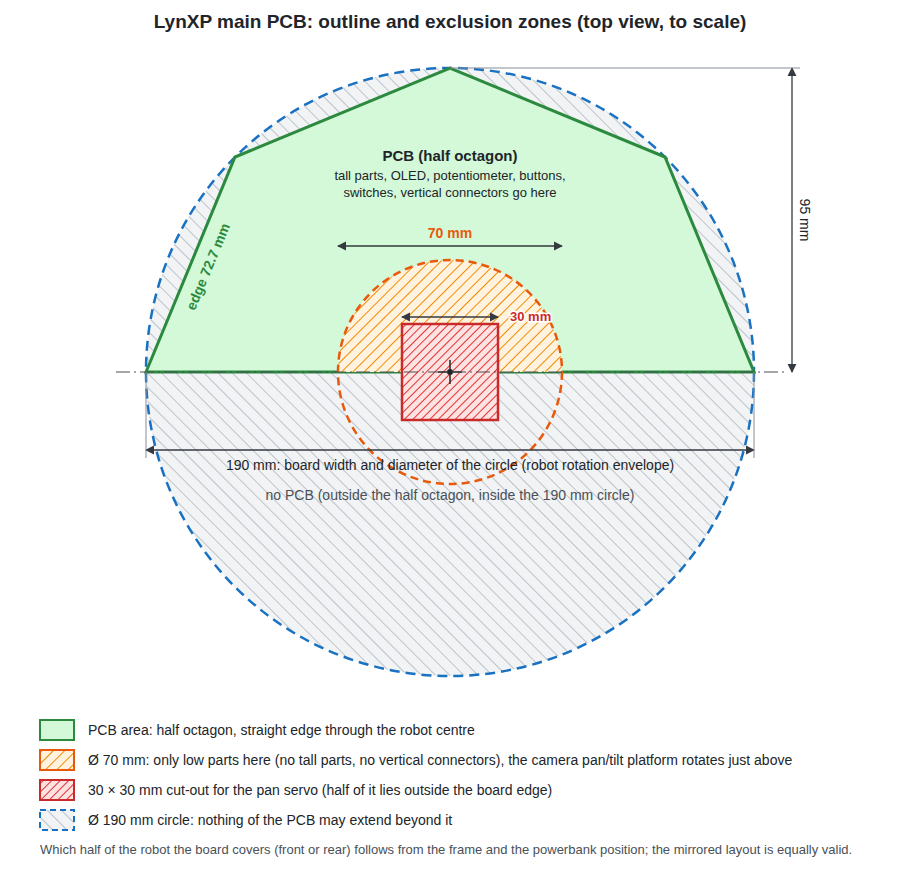
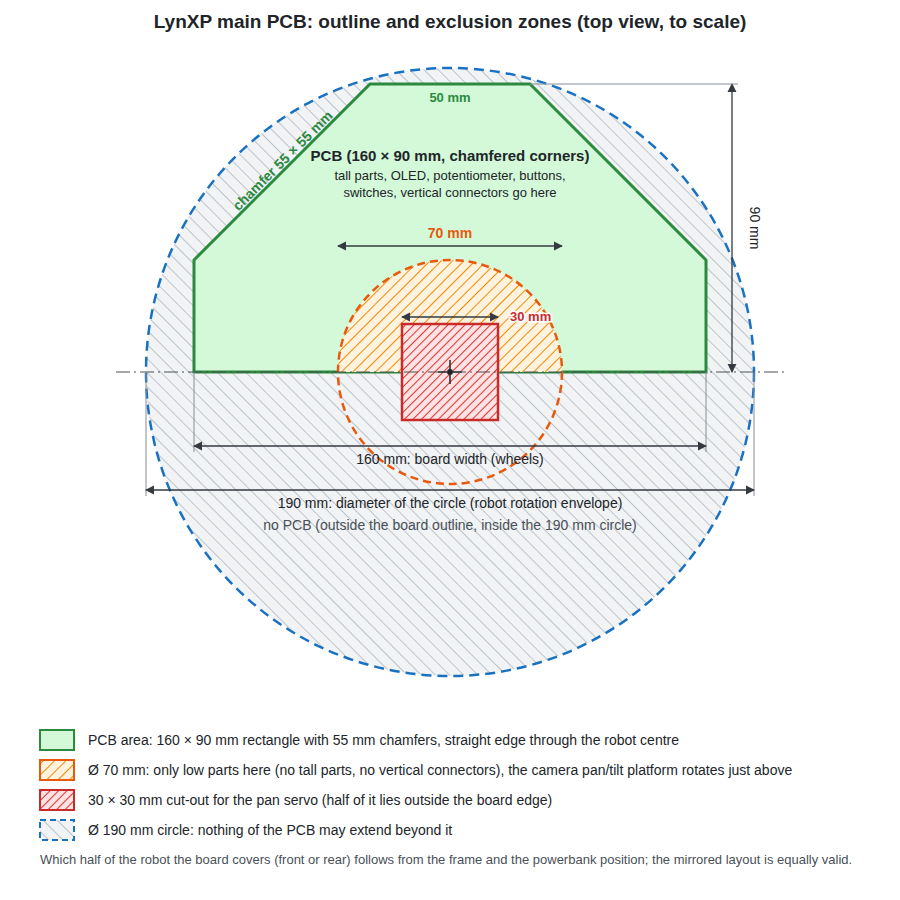
PCB requirements: outline is a 160 x 90 mm rectangle with 55 mm chamfers; redraw top view
Claude-Session: https://claude.ai/code/session_019TSqmhWQzu9b46bPfcjgtr

diff --git a/Schematic/PCB_requirements.md b/Schematic/PCB_requirements.md
@@ -416,7 +416,7 @@ pins in §4.2 become free GPIOs. If included, the following applies:
 - Board outline and mounting holes **must** fit the LynXP frame in place of the breadboard and
   module holders (see the CAD in [CAD/LynXP One Sept 2026](<../CAD/LynXP One Sept 2026>),
   e.g. `Frame_16x10` and `BreadboardHolder_Clamp`).
-- **Must**: board size at most **160 × 100 mm**; smaller (e.g. **100 × 100 mm**) preferred. (If the outline wish of §12.2 is adopted, that outline replaces this limit.)
+- **Must**: board size at most **160 × 100 mm**; smaller (e.g. **100 × 100 mm**) preferred.
 - **Must**: **single-sided assembly**: all SMD parts on the top side. The bottom side carries only
   through-hole solder joints.
 - **Must**: mounting holes **3.2 mm** diameter (M3), positioned on a **10 mm grid** so they line up
@@ -447,19 +447,19 @@ be made smaller to make this possible.
 
 ![Top view of the PCB outline and exclusion zones](pcb_outline_topview.svg)
 
-- **Outline**: shaped as a **half octagon** (straight edges are easier to work with than a
-  semicircle). A regular octagon with a circumscribed circle of 190 mm has 72.7 mm edges; the
-  board is the half on one side of a straight edge through the robot centre: **190 mm wide and
-  95 mm deep**, with a 190 mm straight edge and four 72.7 mm edges at 45° to each other. All its
-  corners lie on the 190 mm circle, so nothing (board, components, connectors overhanging the
-  edge) may extend beyond that circle. Area about 12,700 mm². Which half of the robot it covers
-  (front or rear) follows from the frame and the powerbank position; the mirror image is equally
-  valid.
+- **Outline**: a **rectangle with chamfered corners**, **160 mm wide** (set by the wheels) and
+  **90 mm high**, with its straight 160 mm edge through the robot centre, so the board covers one
+  half of the robot. The two corners away from that edge are chamfered (straight cuts are easier
+  to work with than a semicircle): **55 × 55 mm chamfers at 45°** leave a 50 mm flat on the far
+  edge, and all corners then lie inside the 190 mm circle (the far corners of the 50 mm flat are
+  at a radius of 93.4 mm; an unchamfered rectangle would reach 120 mm). Nothing (board,
+  components, connectors overhanging the edge) may extend beyond the circle. Area about
+  11,400 mm². Which half of the robot it covers (front or rear) follows from the frame and the
+  powerbank position; the mirror image is equally valid.
 - **Cut-out for the pan servo**: cut out a **30 × 30 mm square** at the robot centre. With the
   straight edge through the centre, this becomes a 30 mm wide, 15 mm deep notch in the straight
-  edge. (If a closed hole is preferred, the straight edge can be moved beyond the centre as long
-  as the outline stays within the 190 mm circle; the 160 × 100 mm limit above does not apply
-  to this wish.)
+  edge. (If a closed hole is preferred, the straight edge can be moved beyond the centre, as long
+  as the outline stays within the 190 mm circle.)
 - **Keep-out for tall parts**: within a **circle of diameter 70 mm** centred at the robot centre
   there must be **no high components and no vertical cable plugs** (pin headers, screw terminals,
   electrolytic capacitors, switches, potentiometers, buttons, the OLED, vertical JST/Qwiic
